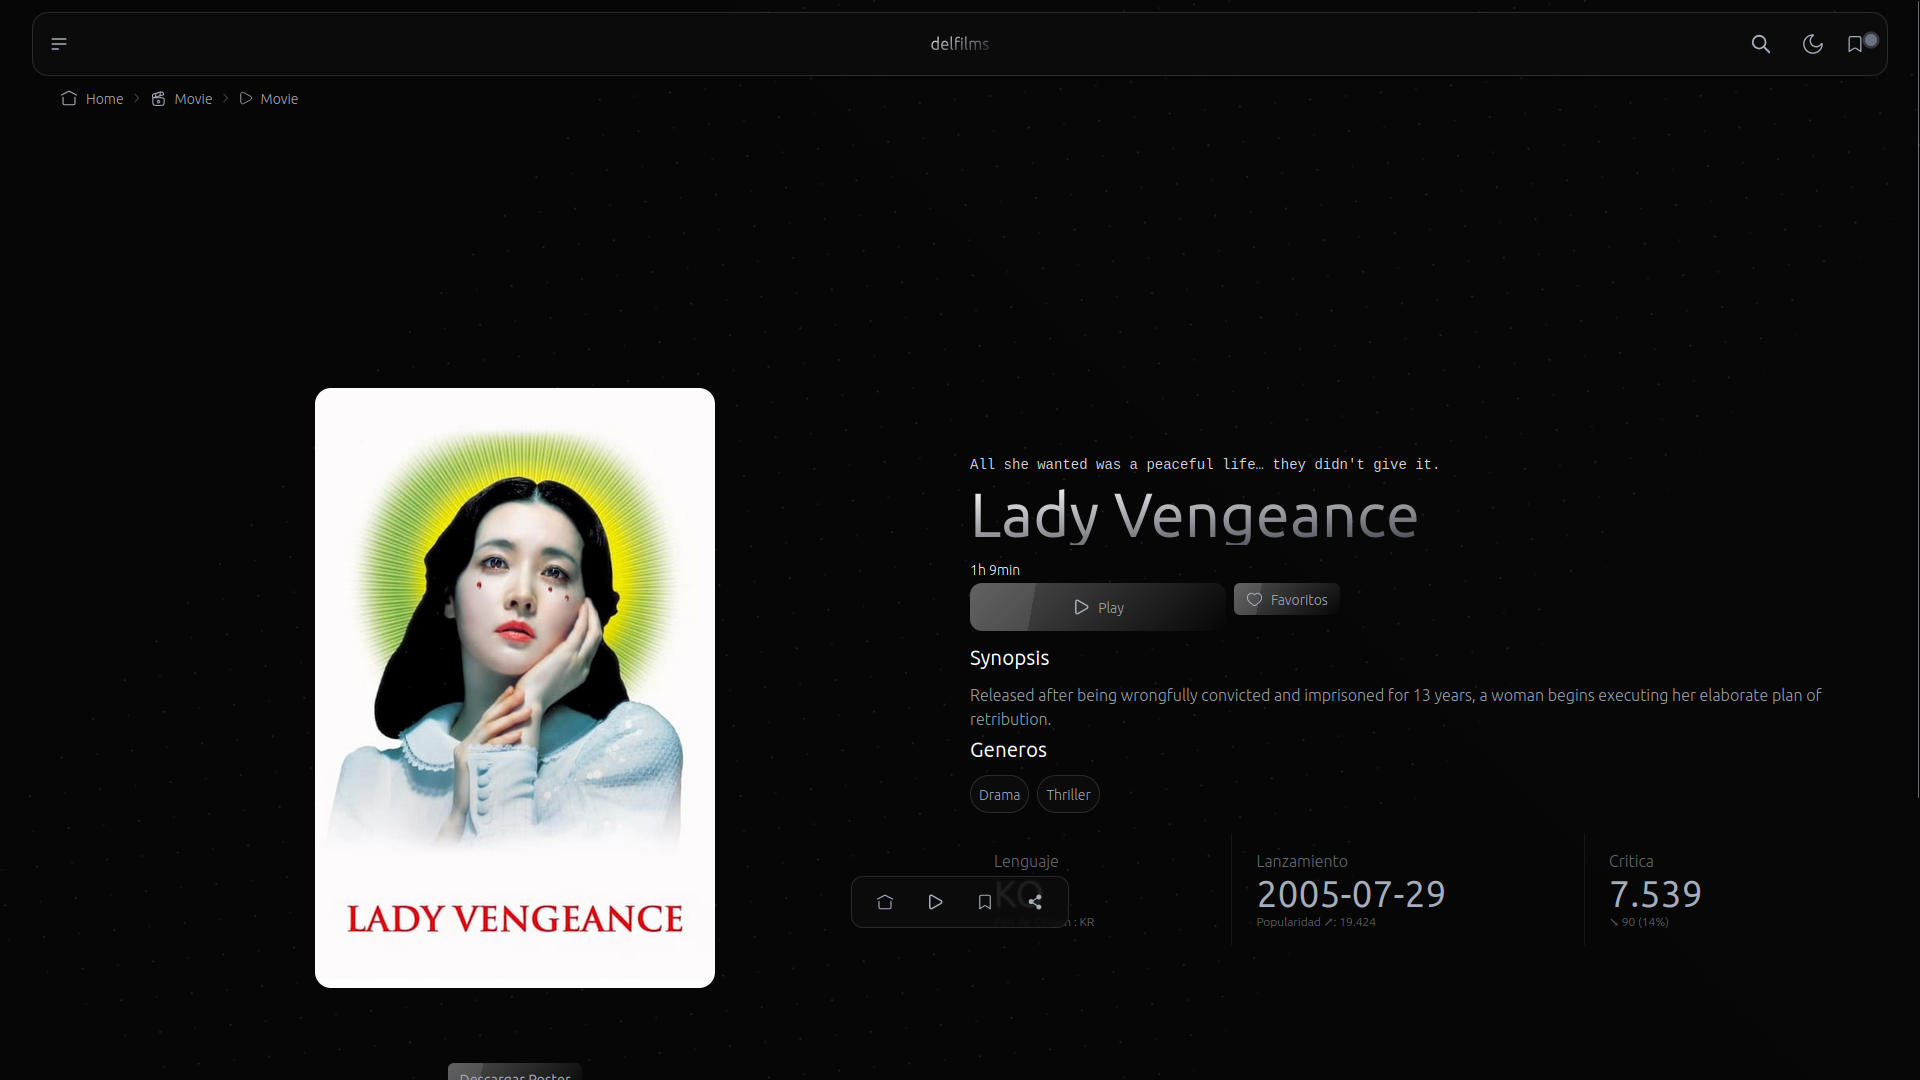
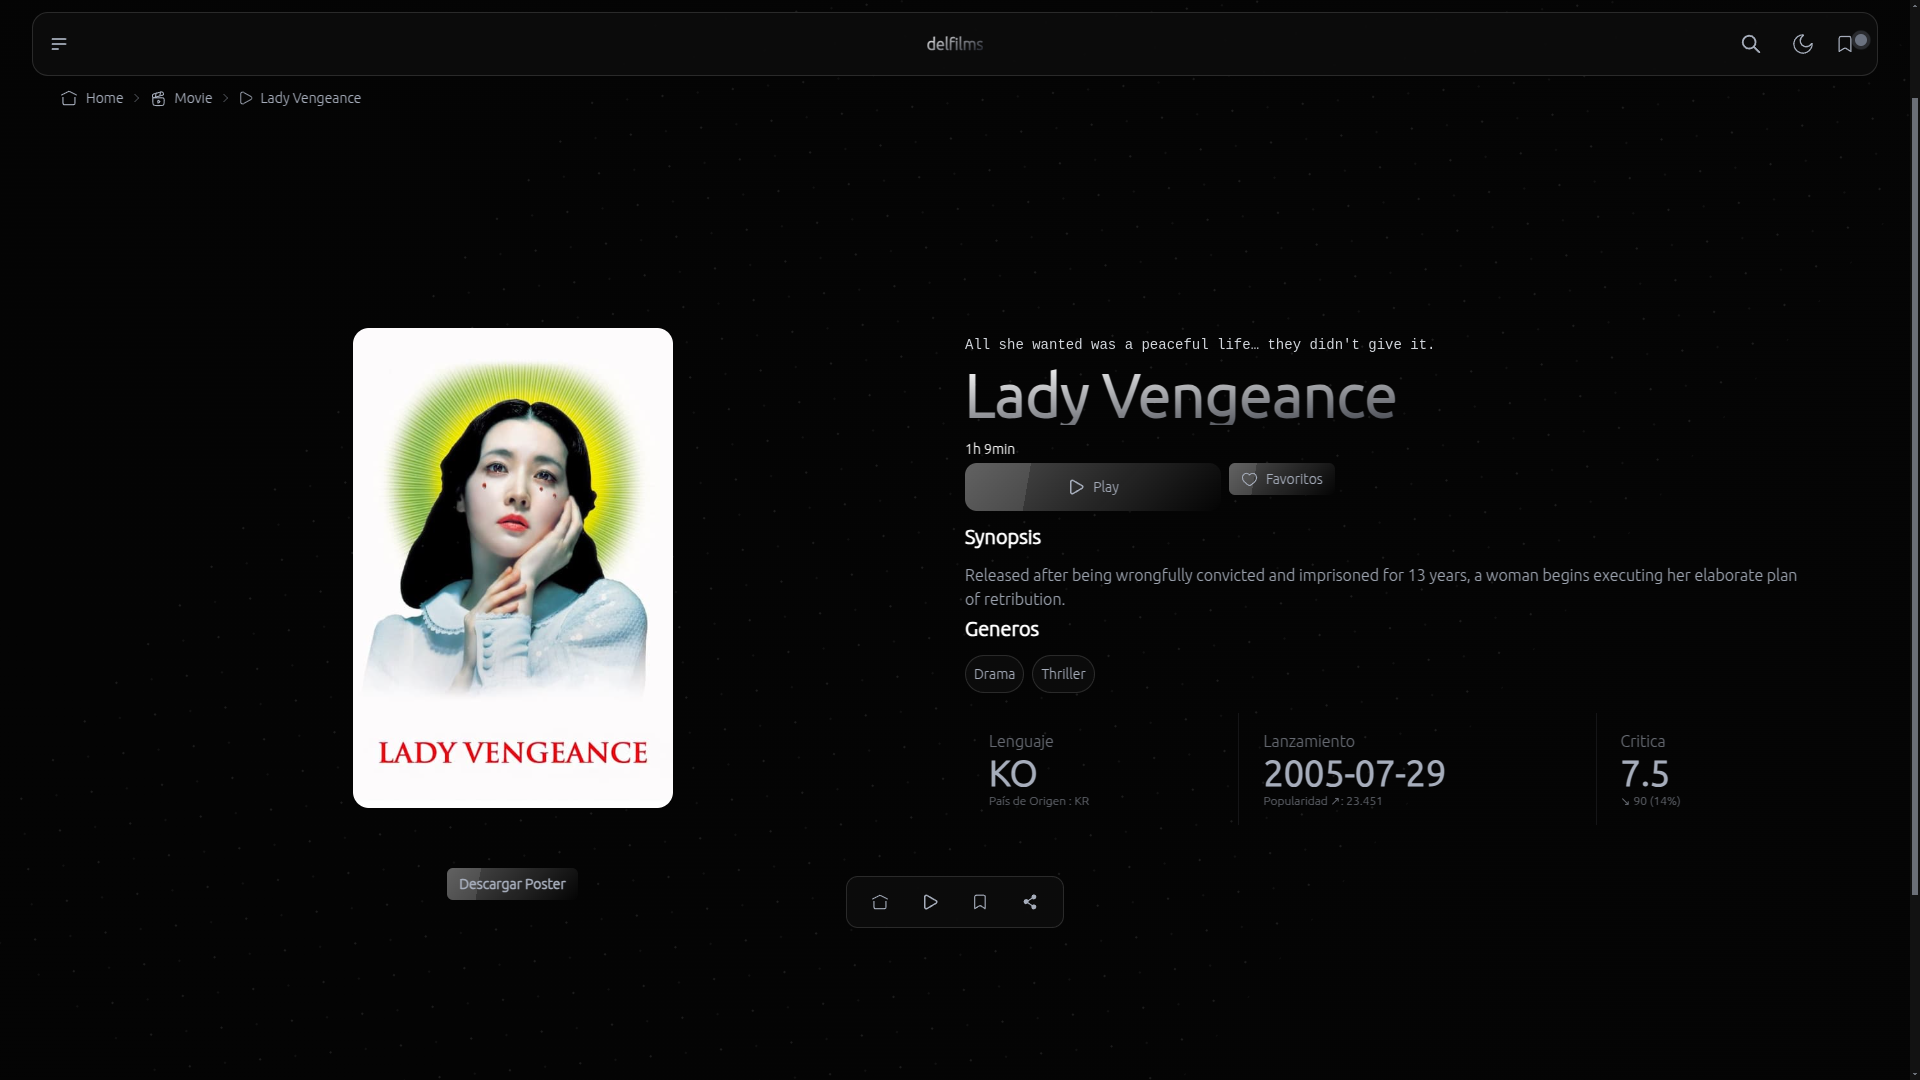
Change dexts

diff --git a/src/page/ProyectPage.tsx b/src/page/ProyectPage.tsx
@@ -6,7 +6,7 @@ import { Icon } from "@iconify/react/dist/iconify.js";
 import SpotlightCard from "../components/SpothCard";
 import SplitText from "../components/SplitText";
 import { Safari } from "../components/Mockup";
-
+import Noise from "../components/noise";
 
 export default function ProyectPage() {
   const { id } = useParams();
@@ -20,13 +20,14 @@ export default function ProyectPage() {
   }, [id]);
 
   return (
+    
     <motion.div
       initial={{ opacity: 0, y: 50, scale: 0.95 }}
       animate={{ opacity: 1, y: 0, scale: 1 }}
       transition={{ duration: 0.6, ease: "easeOut" }}
-      className="p-2 md:p-12 lg:p-22 w-full flex flex-col items-center justify-center h-full min-h-[100vh]"
+      className="p-2 md:p-12 lg:p-22 w-full flex flex-col items-center justify-center h-full "
     >
-      <div className="w-full lg:w-[60vw] flex flex-col gap-2.5 my-17 p-3.5">
+      <div className="w-full lg:w-[50vw] flex flex-col gap-2.5 my-17 p-3.5">
         <SplitText
           text={`${data.name}`}
           className="text-5xl font-medium"
@@ -52,7 +53,7 @@ export default function ProyectPage() {
         <div className="flex flex-col gap-3">
           <div className="row-span-3 rounded-md">
             <p className="font-medium my-2.5">Descripción</p>
-            <p className="font-extralight text-sm grayscale-75">{data.moreDescription}</p>
+            <p className="text-sm ">{data.moreDescription}</p>
           </div>
           <div>
             <p className="font-semibold mb-2.5">Tecnologías</p>

diff --git a/src/App.css b/src/App.css
@@ -13,7 +13,7 @@
 
 
 body {
-  background-color: #101010;
+  background-color :#101010;
   color: #DADADA;
   font-family: "Pixelify" ;
   font-weight: 400; /* O 500, según la variante deseada */
